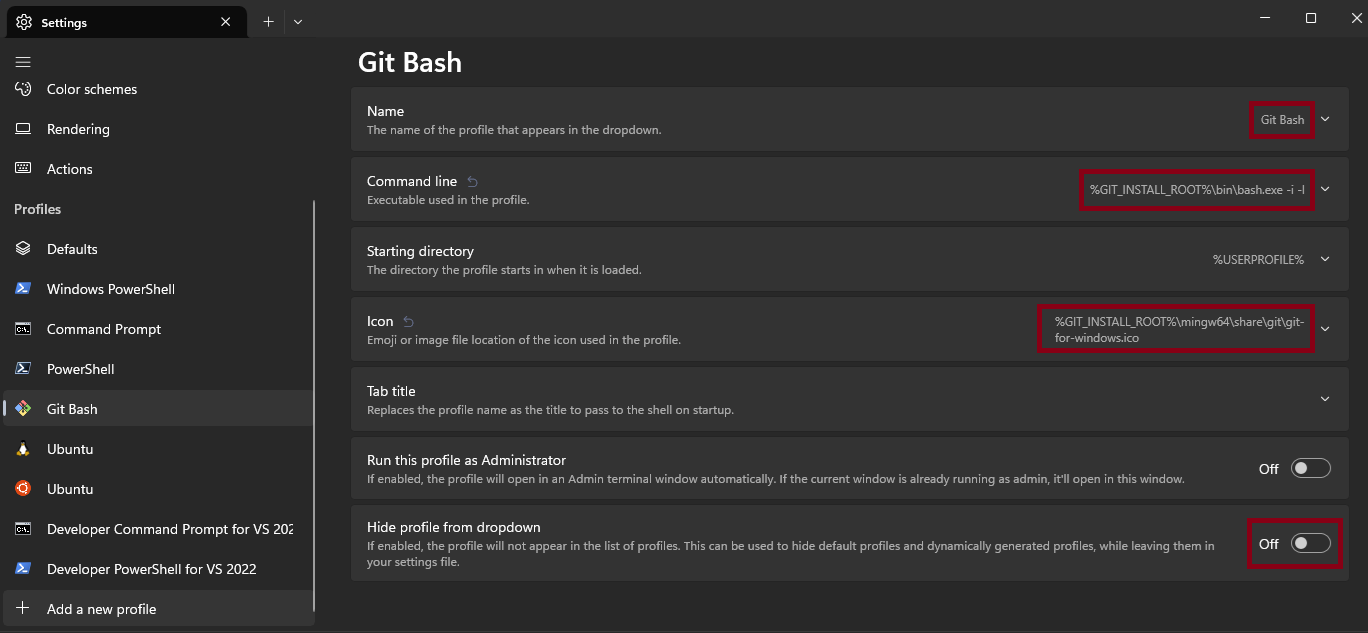
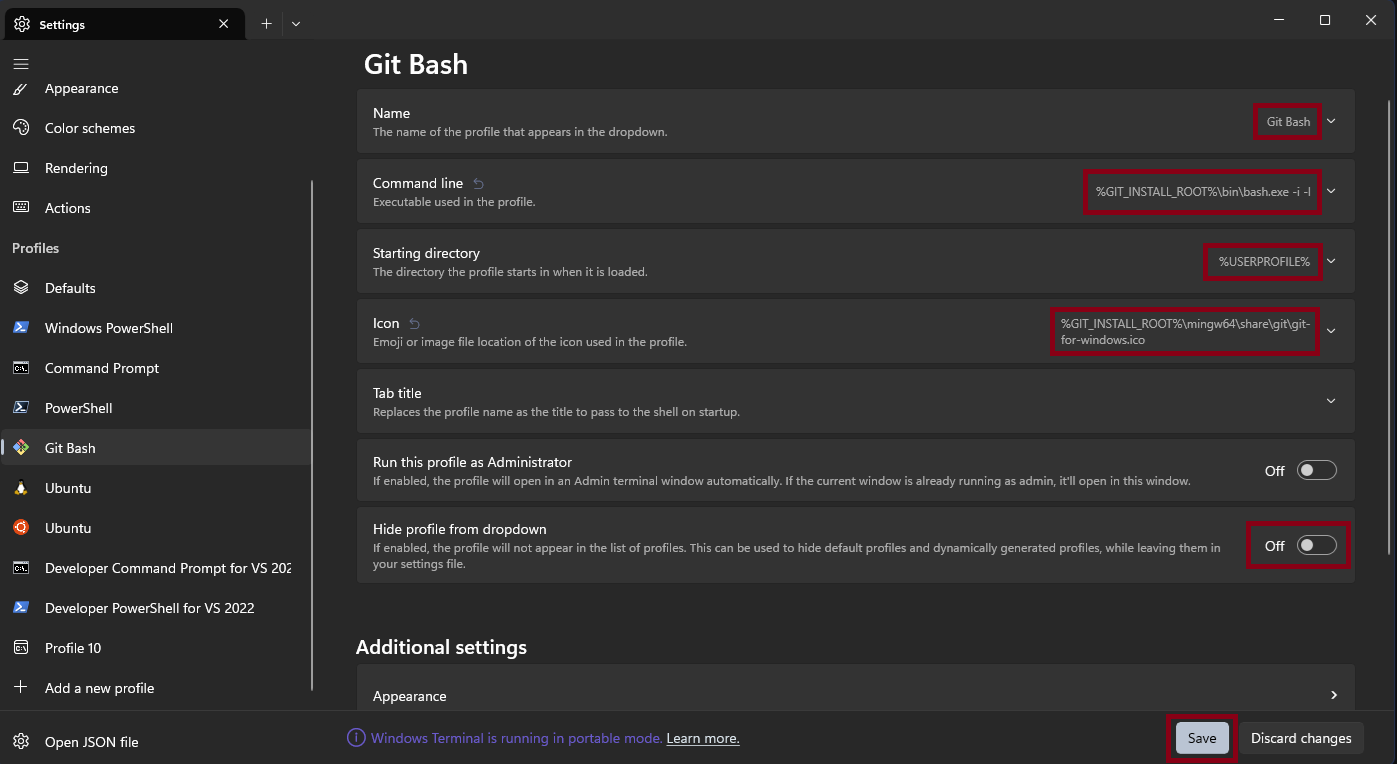
docs: add step to windows terminal setup (#1358)

diff --git a/README.md b/README.md
@@ -196,9 +196,11 @@ Next:
 - If you installed git with scoop: Set *Name* as "Git Bash", set *Command line* as `%GIT_INSTALL_ROOT%\bin\bash.exe -i -l`, and set *Icon* as `%GIT_INSTALL_ROOT%\mingw64\share\git\git-for-windows.ico`.
 - If you installed git by other means: Set *Name* as "Git Bash", set *Command line* as `C:\Program Files\Git\bin\bash.exe -i -l`, and set *Icon* as `C:\Program Files\Git\mingw64\share\git\git-for-windows.ico`.
 
-Ensure that this Profile is not set to *Hidden* and save your changes.
+Next, set *Starting Directory* to `%USERPROFILE%`, and ensure that *Hide profile from dropdown* is set to "Off" (otherwise you won't be able to see this profile in the drop down).
 
 ![windows-terminal-git-bash-3.png](.assets/windows-terminal-git-bash-3.png)
+
+Now save your changes.
 
 You will use this profile to run `ani-cli` in this bash shell.
 Under Startup in Windows Terminal Settings, you may set this profile as the default so that you do not have to switch to it every time you want to run `ani-cli`.